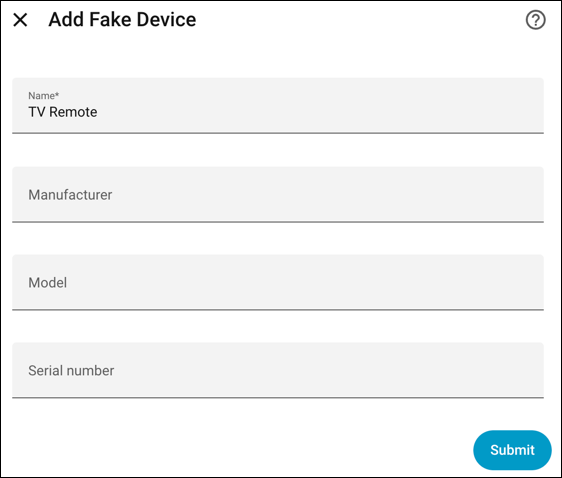
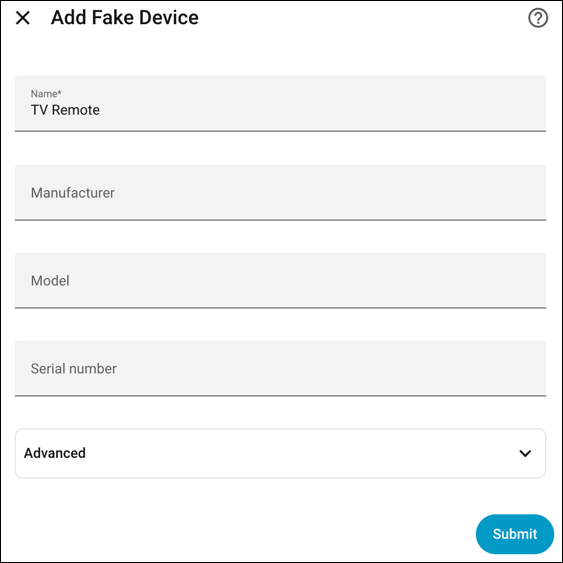
Add advanced fields

diff --git a/custom_components/fake_devices/config_flow.py b/custom_components/fake_devices/config_flow.py
@@ -7,11 +7,18 @@ from typing import Any
 import voluptuous as vol
 from homeassistant.config_entries import ConfigFlow, ConfigFlowResult
 from homeassistant.const import CONF_NAME
+from homeassistant.data_entry_flow import section
 
+from .common import is_valid_url
 from .const import (
+    CONF_ADVANCED,
+    CONF_HW_VERSION,
     CONF_MANUFACTURER,
     CONF_MODEL,
+    CONF_MODEL_ID,
     CONF_SERIAL_NUMBER,
+    CONF_SW_VERION,
+    CONF_URL,
     DOMAIN,
 )
 
@@ -21,6 +28,17 @@ USER_SCHEMA = vol.Schema(
         vol.Optional(CONF_MANUFACTURER): str,
         vol.Optional(CONF_MODEL): str,
         vol.Optional(CONF_SERIAL_NUMBER): str,
+        vol.Required(CONF_ADVANCED): section(
+            vol.Schema(
+                {
+                    vol.Optional(CONF_MODEL_ID): str,
+                    vol.Optional(CONF_HW_VERSION): str,
+                    vol.Optional(CONF_SW_VERION): str,
+                    vol.Optional(CONF_URL): str,
+                }
+            ),
+            {"collapsed": True},
+        ),
     }
 )
 
@@ -30,11 +48,22 @@ class FakeDevicesFlowHandler(ConfigFlow, domain=DOMAIN):
 
     VERSION = 1
 
+    async def check_url(self, url: str) -> dict[str, str]:
+        """Check URL is valid."""
+        if not is_valid_url(url):
+            return {"base": "invalid_url"}
+        return {}
+
     async def async_step_user(
         self, user_input: dict[str, Any] | None = None
     ) -> ConfigFlowResult:
         """Handle a flow initialized by the user."""
         errors: dict[str, str] = {}
+
+        if user_input:
+            url = user_input.get(CONF_ADVANCED, {}).get(CONF_URL)
+            if url:
+                errors = await self.check_url(url)
         if user_input and not errors:
             return self.async_create_entry(
                 title=user_input[CONF_NAME],
@@ -53,6 +82,10 @@ class FakeDevicesFlowHandler(ConfigFlow, domain=DOMAIN):
         """Handle reconfiguration of the integration."""
         config_entry = self._get_reconfigure_entry()
         errors: dict[str, str] = {}
+        if user_input:
+            url = user_input.get(CONF_ADVANCED, {}).get(CONF_URL)
+            if url:
+                errors = await self.check_url(url)
         if user_input and not errors:
             self.hass.config_entries.async_update_entry(
                 config_entry,
@@ -62,6 +95,18 @@ class FakeDevicesFlowHandler(ConfigFlow, domain=DOMAIN):
                     CONF_MANUFACTURER: user_input.get(CONF_MANUFACTURER),
                     CONF_MODEL: user_input.get(CONF_MODEL),
                     CONF_SERIAL_NUMBER: user_input.get(CONF_SERIAL_NUMBER),
+                    CONF_ADVANCED: {
+                        CONF_MODEL_ID: user_input.get(CONF_ADVANCED, {}).get(
+                            CONF_MODEL_ID
+                        ),
+                        CONF_HW_VERSION: user_input.get(CONF_ADVANCED, {}).get(
+                            CONF_HW_VERSION
+                        ),
+                        CONF_SW_VERION: user_input.get(CONF_ADVANCED, {}).get(
+                            CONF_SW_VERION
+                        ),
+                        CONF_URL: user_input.get(CONF_ADVANCED, {}).get(CONF_URL),
+                    },
                 },
             )
             await self.hass.config_entries.async_reload(config_entry.entry_id)

diff --git a/custom_components/fake_devices/__init__.py b/custom_components/fake_devices/__init__.py
@@ -16,12 +16,19 @@ from homeassistant.const import (
     Platform,
 )
 from homeassistant.const import __version__ as HA_VERSION  # noqa: N812
+from homeassistant.exceptions import ConfigEntryError
 from homeassistant.helpers import device_registry as dr
 
+from .common import is_valid_url
 from .const import (
+    CONF_ADVANCED,
+    CONF_HW_VERSION,
     CONF_MANUFACTURER,
     CONF_MODEL,
+    CONF_MODEL_ID,
     CONF_SERIAL_NUMBER,
+    CONF_SW_VERION,
+    CONF_URL,
     DOMAIN,
     MIN_HA_VERSION,
 )
@@ -55,6 +62,13 @@ async def async_setup_entry(
     entry: ConfigEntry,
 ) -> bool:
     """Set up this integration using UI."""
+    url = entry.data.get(CONF_ADVANCED, {}).get(CONF_URL)
+
+    if url and not is_valid_url(url):
+        raise ConfigEntryError(
+            translation_domain=DOMAIN,
+            translation_key="invalid_url",
+        )
     device_registry = dr.async_get(hass)
     device_registry.async_get_or_create(
         config_entry_id=entry.entry_id,
@@ -63,6 +77,10 @@ async def async_setup_entry(
         manufacturer=entry.data.get(CONF_MANUFACTURER),
         model=entry.data.get(CONF_MODEL),
         serial_number=entry.data.get(CONF_SERIAL_NUMBER),
+        model_id=entry.data.get(CONF_ADVANCED, {}).get(CONF_MODEL_ID),
+        hw_version=entry.data.get(CONF_ADVANCED, {}).get(CONF_HW_VERSION),
+        sw_version=entry.data.get(CONF_ADVANCED, {}).get(CONF_SW_VERION),
+        configuration_url=url,
     )
 
     entry.async_on_unload(entry.add_update_listener(async_reload_entry))

diff --git a/custom_components/fake_devices/common.py b/custom_components/fake_devices/common.py
@@ -1,0 +1,9 @@
+"""Common functions."""
+
+from urllib.parse import urlparse
+
+
+def is_valid_url(url: str) -> bool:
+    """Return True if the string is a valid HTTP/HTTPS URL."""
+    result = urlparse(url)
+    return result.scheme in {"http", "https"} and bool(result.netloc)

diff --git a/custom_components/fake_devices/const.py b/custom_components/fake_devices/const.py
@@ -9,4 +9,9 @@ MIN_HA_VERSION = "2026.4.0"
 
 CONF_MANUFACTURER = "manufacturer"
 CONF_MODEL = "model"
+CONF_MODEL_ID = "model_id"
 CONF_SERIAL_NUMBER = "serial_number"
+CONF_ADVANCED = "advanced"
+CONF_HW_VERSION = "hw_version"
+CONF_SW_VERION = "sw_version"
+CONF_URL = "url"

diff --git a/README.md b/README.md
@@ -7,7 +7,9 @@
 
 This integration creates fake devices in Home Assistant, useful for adding helper integrations like [Battery Notes](https://github.com/andrew-codechimp/ha-battery-notes) to real world non-smart devices that are not in Home Assistant, for example TV Remotes and Wall Clocks.
 
-You can add the device name, manufacturer, model and serial number. No entities are created, it's just a device placeholder for using with helpers where you have the option to add to a device.
+You can add the device name, manufacturer, model and serial number, plus model id, hardware, firmware and a URL as optional advanced fields. You can use these to store any short piece of text you want.
+
+No entities are created, it's just a device placeholder for using with helpers where you have the option to add to a device.
 
 _Please :star: this repo if you find it useful_
 
